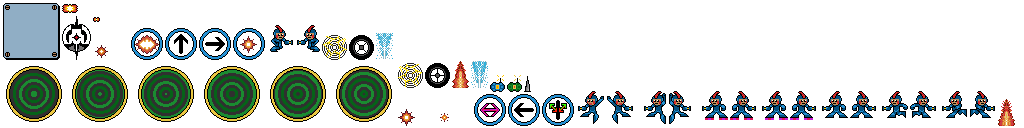
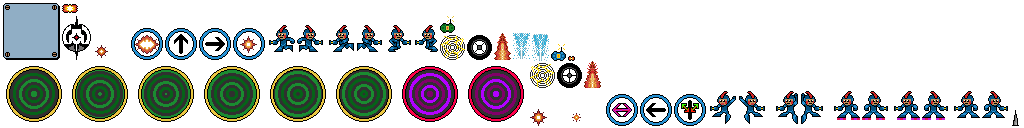
implemented psychic vacuum

Changed region(s): [[0.25, 0.1875, 1.0, 1.0]]

diff --git a/core/src/com/udacity/gamedev/gigagal/util/Assets.java b/core/src/com/udacity/gamedev/gigagal/util/Assets.java
@@ -27,6 +27,7 @@ public final class Assets implements Disposable, AssetErrorListener {
     private GeiserAssets geiserAssets;
     private WheelAssets wheelAssets;
     private CoilAssets coilAssets;
+    private VacuumAssets vacuumAssets;
     private ExplosionAssets explosionAssets;
     private PowerupAssets powerupAssets;
     private ExitPortalAssets exitPortalAssets;
@@ -56,6 +57,7 @@ public final class Assets implements Disposable, AssetErrorListener {
         geiserAssets = new GeiserAssets(atlas);
         wheelAssets = new WheelAssets(atlas);
         coilAssets = new CoilAssets(atlas);
+        vacuumAssets = new VacuumAssets(atlas);
         explosionAssets = new ExplosionAssets(atlas);
         powerupAssets = new PowerupAssets(atlas);
         exitPortalAssets = new ExitPortalAssets(atlas);
@@ -222,6 +224,20 @@ public final class Assets implements Disposable, AssetErrorListener {
                     coilRegions, PlayMode.NORMAL);
         }
     }
+    
+    public class VacuumAssets {
+
+        public final Animation vacuum;
+
+        public VacuumAssets(TextureAtlas atlas) {
+            Array<AtlasRegion> vacuumRegions = new Array<AtlasRegion>();
+            vacuumRegions.add(atlas.findRegion(Constants.VACUUM_SPRITE_1));
+            vacuumRegions.add(atlas.findRegion(Constants.VACUUM_SPRITE_2));
+
+            vacuum = new Animation(Constants.VACUUM_DURATION / vacuumRegions.size,
+                    vacuumRegions, PlayMode.NORMAL);
+        }
+    }
 
     public class ExplosionAssets {
 
@@ -299,6 +315,7 @@ public final class Assets implements Disposable, AssetErrorListener {
     public final GeiserAssets getGeiserAssets() { return geiserAssets; }
     public final WheelAssets getWheelAssets() { return wheelAssets; }
     public final CoilAssets getCoilAssets() { return coilAssets; }
+    public final VacuumAssets getVacuumAssets() { return vacuumAssets; }
     public final ExplosionAssets getExplosionAssets() { return explosionAssets; }
     public final PowerupAssets getPowerupAssets() { return powerupAssets; }
     public final ExitPortalAssets getExitPortalAssets() { return exitPortalAssets; }

diff --git a/core/src/com/udacity/gamedev/gigagal/util/LevelLoader.java b/core/src/com/udacity/gamedev/gigagal/util/LevelLoader.java
@@ -6,7 +6,7 @@ import com.badlogic.gdx.math.Vector2;
 import com.badlogic.gdx.utils.Array;
 import com.udacity.gamedev.gigagal.Level;
 import com.udacity.gamedev.gigagal.entities.AmmoPowerup;
-import com.udacity.gamedev.gigagal.entities.Coil;
+import com.udacity.gamedev.gigagal.entities.Vacuum;
 import com.udacity.gamedev.gigagal.entities.Flame;
 import com.udacity.gamedev.gigagal.entities.Geiser;
 import com.udacity.gamedev.gigagal.entities.HealthPowerup;
@@ -104,10 +104,14 @@ public final class LevelLoader {
                 final Vector2 wheelPosition = imagePosition.add(Constants.WHEEL_CENTER);
                 Gdx.app.log(TAG, "Loaded the wheel at " + wheelPosition);
                 level.getIndestructibles().add(new Wheel(wheelPosition));
-            } else if (item.get(Constants.LEVEL_IMAGENAME_KEY).equals(Constants.COIL_SPRITE_1)) {
-                final Vector2 coilPosition = imagePosition.add(Constants.COIL_CENTER);
-                Gdx.app.log(TAG, "Loaded the coil at " + coilPosition);
-                level.getIndestructibles().add(new Coil(coilPosition));
+            } else if (item.get(Constants.LEVEL_IMAGENAME_KEY).equals(Constants.VACUUM_SPRITE_1)) {
+                final Vector2 vacuumPosition = imagePosition.add(Constants.VACUUM_CENTER);
+                Gdx.app.log(TAG, "Loaded the vacuum at " + vacuumPosition);
+                level.getIndestructibles().add(new Vacuum(vacuumPosition));
+            } else if (item.get(Constants.LEVEL_IMAGENAME_KEY).equals(Constants.VACUUM_SPRITE_1)) {
+                final Vector2 vacuumPosition = imagePosition.add(Constants.VACUUM_CENTER);
+                Gdx.app.log(TAG, "Loaded the vacuum at " + vacuumPosition);
+                level.getIndestructibles().add(new Vacuum(vacuumPosition));
             }
         }
     }

diff --git a/core/src/com/udacity/gamedev/gigagal/entities/Vacuum.java b/core/src/com/udacity/gamedev/gigagal/entities/Vacuum.java
@@ -1,0 +1,39 @@
+package com.udacity.gamedev.gigagal.entities;
+
+import com.badlogic.gdx.graphics.g2d.SpriteBatch;
+import com.badlogic.gdx.graphics.g2d.TextureRegion;
+import com.badlogic.gdx.math.Vector2;
+import com.badlogic.gdx.utils.TimeUtils;
+import com.udacity.gamedev.gigagal.util.Assets;
+import com.udacity.gamedev.gigagal.util.Constants;
+import com.udacity.gamedev.gigagal.util.Utils;
+
+public class Vacuum extends Indestructible {
+
+    // fields
+    private Vector2 position;
+    private long startTime;
+
+    // ctor
+    public Vacuum(Vector2 position) {
+        this.position = position;
+        this.startTime = TimeUtils.nanoTime();
+    }
+
+    public void render(SpriteBatch batch) {
+        final float elapsedTime = Utils.secondsSince(startTime);
+        final TextureRegion region = Assets.getInstance().getVacuumAssets().vacuum.getKeyFrame(elapsedTime, true);
+        Utils.drawTextureRegion(batch, region, position, Constants.VACUUM_CENTER);
+    }
+
+    public final Vector2 getPosition() { return position; }
+    public final float getWidth() { return Constants.VACUUM_COLLISION_WIDTH; }
+    public final float getHeight() { return Constants.VACUUM_COLLISION_HEIGHT; }
+    public final float getLeft() { return position.x - Constants.VACUUM_CENTER.x; }
+    public final float getRight() { return position.x + Constants.VACUUM_CENTER.x; }
+    public final float getTop() { return position.y + Constants.VACUUM_CENTER.y; }
+    public final float getBottom() { return position.y - Constants.VACUUM_CENTER.y; }
+    public final int getDamage() { return Constants.VACUUM_DAMAGE; }
+    public final Vector2 getKnockback() { return Constants.VACUUM_KNOCKBACK; }
+    public final Class getSubclass() { return this.getClass(); }
+}

diff --git a/core/src/com/udacity/gamedev/gigagal/util/Constants.java b/core/src/com/udacity/gamedev/gigagal/util/Constants.java
@@ -125,6 +125,17 @@ public final class Constants {
     public static final String COIL_SPRITE_1 = "coil-1";
     public static final String COIL_SPRITE_2 = "coil-2";
 
+
+    // Vacuum
+    public static final Vector2 VACUUM_CENTER = new Vector2(31, 31);
+    public static final float VACUUM_DURATION = 0.05f;
+    public static final int VACUUM_DAMAGE = 100;
+    public static final Vector2 VACUUM_KNOCKBACK = new Vector2(100, 0);
+    public static final float VACUUM_COLLISION_WIDTH = 25;
+    public static final float VACUUM_COLLISION_HEIGHT = 25;
+    public static final String VACUUM_SPRITE_1 = "vacuum-1";
+    public static final String VACUUM_SPRITE_2 = "vacuum-2";
+
     // Ammo
     public static final float CHARGE_DURATION = 0.8f;
     public static final float BULLET_MOVE_SPEED = 500;
